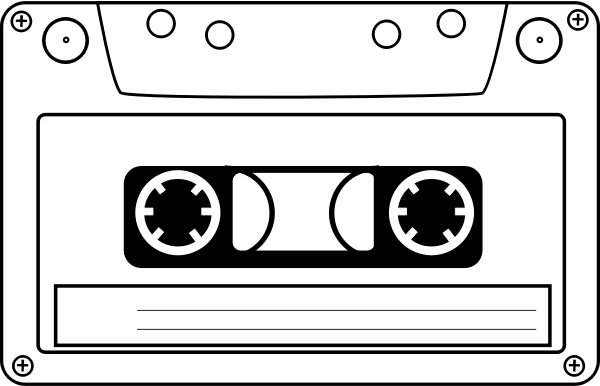
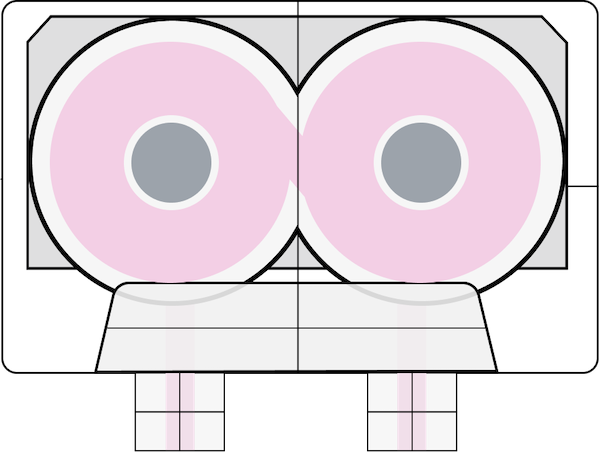
use new cassette png

diff --git a/sketch.js b/sketch.js
@@ -4,7 +4,7 @@ let cassette;
 let speedSlider;
 let lastTick = 0;
 
-let r = 12;
+let r = 11;
 let lightOff, colorFinal;
 let colorInput = [];
 
@@ -15,11 +15,12 @@ function preload() {
 function setup() {
   createCanvas(800, 600);
 
-  lightOff = color(220, 220, 220);
-  colorFinal = color(154, 54, 255);
-  colorInput = ["#3b79f5", "#7b6af7", "#d9a1ff", "#ff4af9", "#ff2672"];
+  lightOff = color("#b8b8b8");
+  lightOff.setAlpha(32);
+  colorFinal = color("#894CE0");
+  colorInput = ["#8D7EFC", "#BE94FF", "#CD6EFF", "#FFA9FF"];
 
-  cassette = new Cassette(50, 50, 600, 385);
+  cassette = new Cassette(50, 50, 600, 376);
 
   speedSlider = createSlider(10, 500, 100, 10);
 
@@ -33,7 +34,6 @@ function draw() {
   text("Press 'P' to add joy pixels", 10, 10);
 
   if (millis() - lastTick >= speedSlider.value()) {
-    // cassette.legLeft.addPixels();
     cassette.tick();
     lastTick = millis();
   }
@@ -60,24 +60,22 @@ class Cassette {
     this.borderPixels = this.generateBorderPixels();
     this.borderColors = this.borderPixels.map((_) => colorFinal);
 
-    let spoolY = y + h / 2 + 24;
-    let spoolX1 = x + 179;
-    let spoolX2 = x + 432;
+    let spoolY = y + h / 2 - 23;
+    let spoolX1 = x + 170;
+    let spoolX2 = x + 420;
     this.spoolLeft = new Spool(spoolX1, spoolY, this.y + this.h);
     this.spoolRight = new Spool(spoolX2, spoolY, this.y + this.h);
 
     this.legLeft = new Leg(
       spoolX1,
       this.y + this.h,
-      100,
-      150,
+      75,
       this.addPixelsLeft.bind(this)
     );
     this.legRight = new Leg(
       spoolX2,
       this.y + this.h,
-      100,
-      150,
+      75,
       this.addPixelsRight.bind(this)
     );
   }
@@ -149,10 +147,9 @@ class Cassette {
 }
 
 class Leg {
-  constructor(cx, yTop, w, h, edgeCallback) {
+  constructor(cx, yTop, h, edgeCallback) {
     this.cx = cx;
     this.yTop = yTop;
-    this.w = w;
     this.h = h;
 
     this.pixels = this.generatePixels();
@@ -186,10 +183,6 @@ class Leg {
   }
 
   draw() {
-    stroke(0);
-    fill(255);
-    rect(this.cx - this.w / 2, this.yTop, this.w, this.h);
-
     this.pixels.forEach((pixel, i) => {
       pixel.setColor(this.pixelColors[i]);
       pixel.draw();
@@ -212,8 +205,9 @@ class Spool {
     this.cassetteBorderBottom = borderBottom;
 
     // spiral parameters
-    this.angle = 0;
-    this.initialRadius = 40;
+    // lmao magic numbers
+    this.angle = 1.13;
+    this.initialRadius = 43;
     this.radius = this.initialRadius;
     this.spacing = 10.02;
     this.numPixels = 280;
@@ -231,7 +225,6 @@ class Spool {
 
   tick() {
     this.i++;
-    // this.pixelColors.unshift(this.pixelColors.pop());
 
     if (this.queue > 0) {
       this.queue--;
